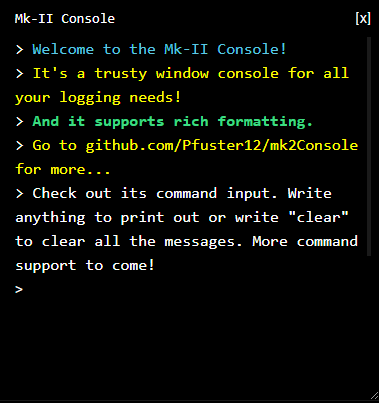
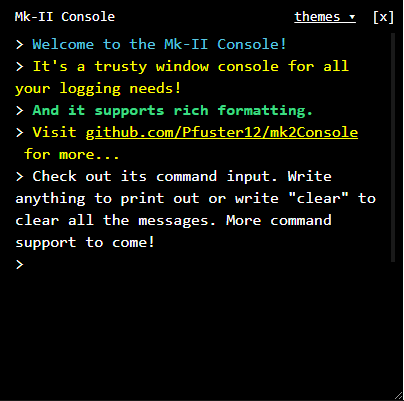
fix(viewer): fixed padding. Fixed command history counter. Updated defaul theme

Changed region(s): [[0.029, 0.0898, 0.9578, 0.7481], [0.0, 0.0, 1.0, 1.0], [0.029, 0.0299, 0.3193, 0.0599]]

diff --git a/src/Mk2ConsoleViewer.tsx b/src/Mk2ConsoleViewer.tsx
@@ -17,7 +17,7 @@ export default function Mk2ConsoleViewer(props: Mk2ConsoleViewerProps = { remove
 
     const [input, setInput] = useState('')
     const [commandHistory, setCommandHistory] = useState<string[]>([])
-    const [commandHistoryCounter, setCommandHistoryCounter] = useState(0)
+    const [commandHistoryCounter, setCommandHistoryCounter] = useState(-1)
     const [showThemes, setShowThemes] = useState(false)
     const [theme, setTheme] = useState('default')
     const themes = ['default', 'light', 'dracula']
@@ -47,7 +47,7 @@ export default function Mk2ConsoleViewer(props: Mk2ConsoleViewerProps = { remove
     /**
      * Handle on key press.
      */
-    function onKeyPress(event: React.KeyboardEvent) {
+    function onKeyUp(event: React.KeyboardEvent) {
         const str = input.trim()
         
         if (event.keyCode == KeyCodes.KEY_ENTER) {
@@ -69,6 +69,7 @@ export default function Mk2ConsoleViewer(props: Mk2ConsoleViewerProps = { remove
             }
             // clear input
             setInput('')
+            setCommandHistoryCounter(-1)
             return
         }
 
@@ -80,19 +81,27 @@ export default function Mk2ConsoleViewer(props: Mk2ConsoleViewerProps = { remove
 
         if (event.keyCode == KeyCodes.KEY_UP_ARROW) {
             event.preventDefault()
-            if (commandHistoryCounter < commandHistory.length) {
-                const command = commandHistory[commandHistoryCounter]
-                setInput(command)
-                setCommandHistoryCounter(commandHistoryCounter + 1)    
+            var counter = commandHistoryCounter
+            if (counter >= commandHistory.length - 1) {
+                counter = commandHistory.length - 2
             }
+ 
+            const command = commandHistory[counter + 1]
+            
+            setInput(command)
+            setCommandHistoryCounter(counter + 1)    
         }
 
         if (event.keyCode == KeyCodes.KEY_DOWN_ARROW) {
             event.preventDefault()
-            if (commandHistoryCounter > 0) {
-                const command = commandHistory[commandHistoryCounter]
+            var counter = commandHistoryCounter
+            if (commandHistoryCounter <= -1) {
+                counter = -1
+            }
+            if (counter > 0) {
+                const command = commandHistory[counter - 1]
                 setInput(command)
-                setCommandHistoryCounter(commandHistoryCounter - 1)
+                setCommandHistoryCounter(counter - 1)
             }
         }
     }
@@ -156,7 +165,7 @@ export default function Mk2ConsoleViewer(props: Mk2ConsoleViewerProps = { remove
                 <span className="mk2console-stream mk2console-input-block">>&nbsp;
                     <textarea value={input}
                         onChange={onInputChange}
-                        onKeyDown={onKeyPress}
+                        onKeyUp={onKeyUp}
                         className="mk2console-input mk2console-stream"/>
                 </span>
             </div>

diff --git a/src/styles/default-styles.css b/src/styles/default-styles.css
@@ -113,7 +113,7 @@
     color: var(--default-color);
     border: none;
     white-space: pre-wrap;
-    padding: 0px 0px 0px 1px;
+    padding: 0px 0px 0px 0px;
     font-size: 16px;
 }
 
